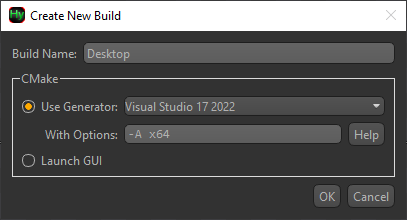
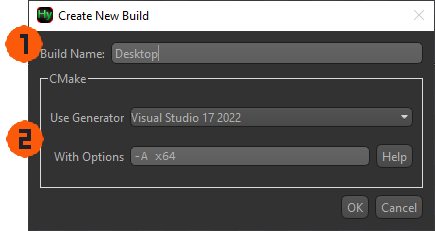
Polish on some Editor docs; new diagrams with mermaid

Changed region(s): [[0.0, 0.0, 1.0, 1.0], [0.9435, 0.0545, 0.973, 0.0818]]

diff --git a/mkdocs/docs/stylesheets/hyengine.css b/mkdocs/docs/stylesheets/hyengine.css
@@ -6,6 +6,10 @@
 
 .hyorange {
 	color: #FA5A0A;
+}
+
+.hyindicator {
+	color: #FA5A0A;
 	transform: scale(1.85);
 }
 

diff --git a/mkdocs/docs/editor/projects.md b/mkdocs/docs/editor/projects.md
@@ -10,21 +10,21 @@ To create a new Project in the Project Explorer you can:
 - `File > New Project` from the menu
 - Press ++ctrl+shift+n++
 
+<div class="grid" markdown>
+
 <figure>
   <img src="../img/editor/dlg_new_project.png" alt="Create New Project Dialog">
   <figcaption></figcaption>
 </figure>
 
-**Game Title** is the human readable name of your game, used on labels and titles.
-
-**Code Name** will be used to create the main C++ class, and must be compliant with standard naming conventions.
-
-The final **Project Location** (where all the project files will be dumped) is assembled by what's specified in the text field PLUS whether **Create game directory at location** is checked.
+- **Game Title** is the human readable name of your game, used on labels and titles.
+- **Code Name** will be used to create the main C++ class, and must be compliant with standard naming conventions.
+- The final **Project Location** (where all the project files will be dumped) is assembled by what's specified in the text field PLUS whether **Create game directory at location** is checked.
+- Within **Advanced** you can customize how the project folders (like the assets or source code) reside and what they're named. You can even specify locations outside the **Project Location**. For each entry, press **Browse...** and choose the desired *parent* location, and the relative path from the **Project Location** will be filled in. Finally enter the name of the directory itself.
+</div>
 
 !!! note "Example Setup"
     If you want a common location for multiple game projects, specify that root location the text field and keep **Create game directory at location** checked.
-
-Within **Advanced** you can customize how the project folders (like the assets or source code) reside and what they're named. You can even specify locations outside the **Project Location**. For each entry, press **Browse...** and choose the desired *parent* location, and the relative path from the **Project Location** will be filled in. Finally enter the name of the directory itself.
 
 ## Project Explorer
 
@@ -35,17 +35,57 @@ Within **Advanced** you can customize how the project folders (like the assets o
 
 <div class="grid cards" markdown>
 
-- :material-numeric-1-circle:{.hyorange}All currently open **Project**s ![Project Icon](../img/editor/Project.png) are shown in the tree view here. Nested beneath each **Project** are the prefix folders containing the **Project Items**. The currently active project is shown with the ![Project Active Icon](../img/editor/Project-Pending.png) sub-icon.  
-- :material-numeric-2-circle:{.hyorange}You can drag **Project Items** between entirely different game **Projects** to copy them. This will include importing any required assets into the target project.  
-- :material-numeric-3-circle:{.hyorange}The search box allows you to filter the visible **Project Items** in the tree view. You can also filter by item type by selecting the corresponding icon.
+- :material-numeric-1-circle:{.hyindicator}All currently open **Project**s ![Project Icon](../img/editor/Project.png) are shown in the tree view here. Nested beneath each **Project** are the prefix folders containing the **Project Items**. The currently active project is shown with the ![Project Active Icon](../img/editor/Project-Pending.png) sub-icon.  
+- :material-numeric-2-circle:{.hyindicator}You can drag **Project Items** between entirely different game **Projects** to copy them. This will include importing any required assets into the target project.  
+- :material-numeric-3-circle:{.hyindicator}The search box allows you to filter the visible **Project Items** in the tree view. You can also filter by item type by selecting the corresponding icon.
 
 </div>
 
 ## Project Settings
 
-Under Development - Dialog tool meant to edit the game's .hyproj file
+Click the ![Project Settings Button](../img/editor/Project-Settings.png) button along the top tool bar, or :material-mouse-right-click:++right-button++ on a Project within [Project Explorer](#project-explorer) and select "![Project Settings Button](../img/editor/Project-Settings.png) Project Settings" to open the Project Settings dialog.
+
+
+
+<div class="grid cards" markdown>
+
+<figure>
+  <img src="../img/editor/dlg-project-settings.png" alt="Project Settings Dialog">
+  <figcaption>Dialog tool meant to edit the game's .hyproj file</figcaption>
+</figure>
+
+<div class="grid cards" markdown>
+- **Render Windows**  
+Most games will only need one window, but if your program requires multiple windows, you can add them here. Each window can have its own Title, Resolution, resize-ability, and starting location. When accessing these windows in code, they are referenced by their order from top to bottom (0-indexed).  
+- **Updates Per Second**  
+Sets a fixed update rate for the game loop. Rendering may occur more frequently, but the game logic will only update at this rate. A value of 0 means it will use non-throttled, variable updating, and will match the rendering frame rate.  
+- **Show Mouse Cursor**  
+When the mouse cursor is over the game window, it will show the operating system's version of the mouse if this option is checked. Otherwise, the OS's mouse cursor will be hidden while over the game window.  
+- **Number of Input Maps**  
+Input Maps take all the actions the player can perform and assigns inputs to them. You generally set the number of input maps equal to the number of local players your game supports. Each player will have their own input map.  
+</div>
+</div>
+
+<div class="grid cards" markdown>
+- **Pixels Per Meter**  
+Sets the scale of the physics simulation. This value defines how many pixels in the game world correspond to one meter in the physics engine. Adjusting this value can affect the feel of movement and collisions in your game.  
+- **Gravity**  
+Direction of the world's gravity vector, measured in meters per second squared (m/s²). Harmony's world up is positive Y.
+- **Use Console Window**  
+When checked, a separate console window will open alongside your game. This is useful for debugging, as it can display log messages, errors, and other output from your game. The Size is not the resolution of the console window, but rather the number of text columns and rows it can display at once. Location is desktop coordinates like how Render Windows are positioned.
+</div>
 
 ## Creating new Project Items
 
+To create a new Item you can :material-mouse-right-click:++right-button++ in the [Project Explorer](#project-explorer) on a ![Prefix Folder](../img/editor/Prefix.png) prefix folder and select `New Item > [select item]` to create an item at that location, or use one of the following methods:
 
+- `File > New Item > [select item]` from the top menu
+- Press ++ctrl+n++, ++s++ to create a new ![New Sprite](../img/editor/Sprite-New.png) Sprite  
+- Press ++ctrl+n++, ++m++ to create a new ![New TileMap](../img/editor/TileMap-New.png) Tile Map  
+- Press ++ctrl+n++, ++t++ to create a new ![New Text](../img/editor/Text-New.png) Text  
+- Press ++ctrl+n++, ++f++ to create a new ![New Particle FX](../img/editor/Particles-New.png) Particle FX  
+- Press ++ctrl+n++, ++i++ to create a new ![New Spine](../img/editor/Spine-New.png) Spine  
+- Press ++ctrl+n++, ++p++ to create a new ![New Prefab](../img/editor/Prefab-New.png) Prefab  
+- Press ++ctrl+n++, ++a++ to create a new ![New Audio](../img/editor/Audio-New.png) Audio  
+- Press ++ctrl+n++, ++e++ to create a new ![New Entity](../img/editor/Entity-New.png) Entity  
 

diff --git a/mkdocs/docs/editor/index.md b/mkdocs/docs/editor/index.md
@@ -7,42 +7,35 @@ title: "Editor Manual"
   <figcaption>HyEditor's default window layout.</figcaption>
 </figure>
 
-<table style="border-collapse: collapse; border: none;">
-    <tr style="border: none;">
-        <td style="border: none; padding-right: 20px;"><strong>1⃣. Project Explorer</strong><br>
-            Open <em>Project</em>'s will show up here. You may have multiple <em>Project</em>'s open and browsable at once, but only one <em>Project</em> may be 'active' at a given time. All the details are provided in the <a href="projects.html">Projects</a> section.
-        </td>
-        <td style="border: none; padding-right: 20px;"><strong>2⃣. Asset Manager</strong><br>
-            The currently active <em>Project</em>'s <em>Asset Manager</em>. Each tab along the top are the major asset types handled independantly from each other. All the details are provided in the <a href="asset-manager.html">Asset Manager</a> section.
-        </td>
-    </tr>
-    <tr style="border: none;">
-        <td style="border: none; padding-right: 20px;"><strong>3⃣. Project Tab Bar</strong><br>
-            All currently open <em>Project Item</em>'s from the active <em>Project</em> are shown here. You can cycle between them with <code>Ctrl+Tab</code> and each item has its own Undo/Redo stack.
-        </td>
-        <td style="border: none; padding-right: 20px;"><strong>4⃣. Project Item Properties</strong><br>
-            Shows all the properties of the currently selected <em>Project Item</em> in the <em>Project Tab Bar</em>. The properties set here set are reflected in the <em>middle render window</em>.
-        </td>
-    </tr>
-    <tr style="border: none;">
-        <td style="border: none; padding-right: 20px;"><strong>5⃣. Middle Render Window</strong><br>
-            The currently selected <em>Project Item</em> is previewed here. The renderer used here is the same renderer (<em>HyEngine</em>) used in your game. Previews are created by simulating the same load process as well, so it's a WYSIWYG work-flow. Pan the view with <code>WASD</code> or <code>Middle Mouse</code>, and zoom with the <code>Mouse Wheel</code>.
-        </td>
-        <td style="border: none; padding-right: 20px;"><strong>6⃣. Auxiliary Window</strong><br>
-            The Auxiliary window is contextually used when needed. By default it'll display logs, but when an additional window is needed by the <em>Asset Manager</em> or the <em>Project Item Properties</em>, a new tab along the bottom will appear and be shown. Its visibility can be toggled with <code>Ctrl+Space</code>.
-        </td>
-    </tr>
-</table>
+<div class="grid cards" markdown>
+
+- :material-numeric-1-circle:{.hyindicator}**Project Explorer**  
+    Open Projects will show up here. You may have multiple Projects open and browsable at once, but only one Project may be 'active' at a given time. All the details are provided in the [Projects](projects.md) section.
+- :material-numeric-2-circle:{.hyindicator}**Asset Manager**  
+    The currently active Project's Asset Manager. Each tab along the top are the major asset types handled independently from each other. All the details are provided in the [Asset Manager](asset-manager.md) section.
+- :material-numeric-3-circle:{.hyindicator}**Project Tab Bar**  
+    All currently open [Project Items](items/index.md) from the active Project are shown here. You can cycle between them with ++ctrl+tab++ and each item has its own Undo/Redo stack.
+- :material-numeric-4-circle:{.hyindicator}**Project Item Properties**  
+    Shows all the properties of the currently selected [Project Item](items/index.md) in the Project Tab Bar. The properties set here set are reflected in the middle render window.
+- :material-numeric-5-circle:{.hyindicator}**Middle Render Window**  
+    The currently selected [Project Item](items/index.md) is previewed here. The renderer used here is the same renderer (HyEngine) used in your game. Previews are created by simulating the same load process as well, so it's a WYSIWYG work-flow. Pan the view with ++w++ ++a++ ++s++ ++d++ or ++middle-button++, and zoom with the Mouse Wheel :material-mouse-scroll-wheel:.
+- :material-numeric-6-circle:{.hyindicator}**Auxiliary Window**  
+    The Auxiliary window is contextually used when needed. By default it'll display logs, but when an additional window is needed (like when creating [TileSets](tilesets.md)), a new tab along the bottom will appear and be shown. Its visibility can be toggled with ++ctrl+space++.
+
+</div>
 
 ## Editor Flow
 
-<figure>
-  <img src="../img/editor_flow.png" alt="HyEditor work flow">
-  <figcaption>Shows how each section of HyEditor works together.</figcaption>
-</figure>
+Shows how each section of HyEditor works together.
 
-1⃣. Open a **Project Item** from **Project Explorer**...  
-2⃣. Shows up in **Project Tab Bar**, and when selected...  
-3⃣. It will be displayed in the **Project Item Properties** which...  
-4⃣. May reference assets in **Asset Manager** to...  
-5⃣. Show a preview in the **Middle Render Window**  
+<div class="grid" markdown>
+
+![HyEditor work flow](../img/editor_flow.png)
+
+:material-numeric-1-circle:{.hyorange}Open a **Project Item** from **Project Explorer**...  
+:material-numeric-2-circle:{.hyorange}Shows up in **Project Tab Bar**, and when selected...  
+:material-numeric-3-circle:{.hyorange}It will be displayed in the **Project Item Properties** which...  
+:material-numeric-4-circle:{.hyorange}May reference assets in **Asset Manager** to...  
+:material-numeric-5-circle:{.hyorange}Show a preview in the **Middle Render Window**  
+
+</div>

diff --git a/mkdocs/docs/programming/index.md b/mkdocs/docs/programming/index.md
@@ -3,10 +3,87 @@ title: "Programming Manual"
 hide: toc
 ---
 
-<figure>
-  <img src="../img/engine/engine-overview.drawio.png" alt="Project architecture diagram">
-  <figcaption>How your game application works with HyEngine. All new projects are generated with this basic structure.</figcaption>
-</figure>
+How your game application works with HyEngine. All new projects are generated with this basic structure.
+
+<div class="grid" markdown>
+
+``` mermaid
+classDiagram
+  HyEngine <|-- YourGame
+  class HyEngine{
+    -HyInit initStruct
+    -HyComponent engineComponent
+    ...
+    +HyEngine(HyInit)
+    ~HyEngine()
+    +RunGame() int32
+    #virtual OnUpdate() bool
+  }
+  class YourGame{
+    -HyCamera2d * pCamera
+    -MainMenu mainMenu
+    -ILevel * pCurrentLevel
+    -LevelOne LevelOne
+    ...
+    +YourGame(HyInit)
+    ~YourGame()
+    #override OnUpdate() bool
+  }
+```
+
+<div markdown>
+
+:fontawesome-solid-file-alt:`main.cpp`
+
+1. Initializes a `HyInit` structure  
+
+2. Instantiate `YourGame` class, which derives from `HyEngine`  
+
+3. Invoke `YourGame::RunGame()` to start the main game loop
+
+---
+
+Use `YourGame` class constructor to initialize your game.  
+
+Override `OnUpdate()` to implement your game's main logic, such as updating the current level or handling menu navigation. `OnUpdate()` is invoked within Harmony's main game loop whenever a frame of game logic needs to happen.
+
+Simple programs might only need to declare a few scene nodes and can implement all logic directly in `OnUpdate()`. More complex games will likely want to create separate classes to encapsulate different game states or levels.  
+
+</div>
+
+</div>
+
+!!! note annotate
+    The member variables declared in your main game class encapsulate the flow or main components of the program. These are usually custom classes derived from `HyEntity2d` (1).
+
+1. `HyEntity2d` is a special scene node that can contain other scene nodes like sprites, text, and audio. It also serves as a way to logically group and update objects within the game world.  
+``` mermaid
+classDiagram
+    HyEntity2d <|-- MainMenu
+    HyEntity2d <|-- ILevel
+    ILevel <|-- LevelOne
+    class HyEntity2d{
+    +HyEntity2d()
+    ~HyEntity2d()
+    #virtual OnUpdate() void
+    }
+    class MainMenu{
+    -HySprite2d background
+    -HyText2d menuText
+    ...
+    +MainMenu()
+    ~MainMenu()
+    #override OnUpdate() void
+    }
+    class ILevel{
+    -MainCharacter * pMainCharacter
+    -LevelStuff levelStuff
+    ...
+    +ILevel()
+    ~ILevel()
+    #override OnUpdate() void
+    }
+```
 
 ## Global Engine Utilities
 

diff --git a/mkdocs/docs/editor/asset-manager.md b/mkdocs/docs/editor/asset-manager.md
@@ -54,9 +54,9 @@ title: "Asset Manager"
 The assets and filters are shown in the main tree view:
 
 - You can multi-select and drag 'n drop them to new locations.  
-- Double ++left-button++ an asset will preview it in the **Asset Inspector**, located in the Auxiliary window.  
-- ++right-button++ an asset will open a context menu with additional options, such as renaming, moving to a different bank, or setting Asset Properties.
-- ++right-button++ an asset and selecting **Asset Properties** will open the **Asset Properties** dialog.
+- Double :material-mouse-left-click:++left-button++ an asset will preview it in the **Asset Inspector**, located in the Auxiliary window.  
+- :material-mouse-right-click:++right-button++ an asset will open a context menu with additional options, such as renaming, moving to a different bank, or setting Asset Properties.
+- :material-mouse-right-click:++right-button++ an asset and selecting **Asset Properties** will open the **Asset Properties** dialog.
 
 
 ## Banks
@@ -105,7 +105,12 @@ The library dependency must be a CMake compatible package. You must specify the 
 
 With your **Build Settings** determined, you can create a new build of your game by clicking the ![New Build Button](../img/editor/Build-New.png) **New Build** button.
 
-![New Build Dialog](../img/editor/dlg_new_build.png)
+<figure>
+  <img src="../img/editor/dlg_new_build.png" alt="Create Build Dialog">
+  <figcaption></figcaption>
+</figure>
+
+**Build Name** 
 
 Once you created a new build, it will appear in the combo box along in the "Builds" group box.
 
